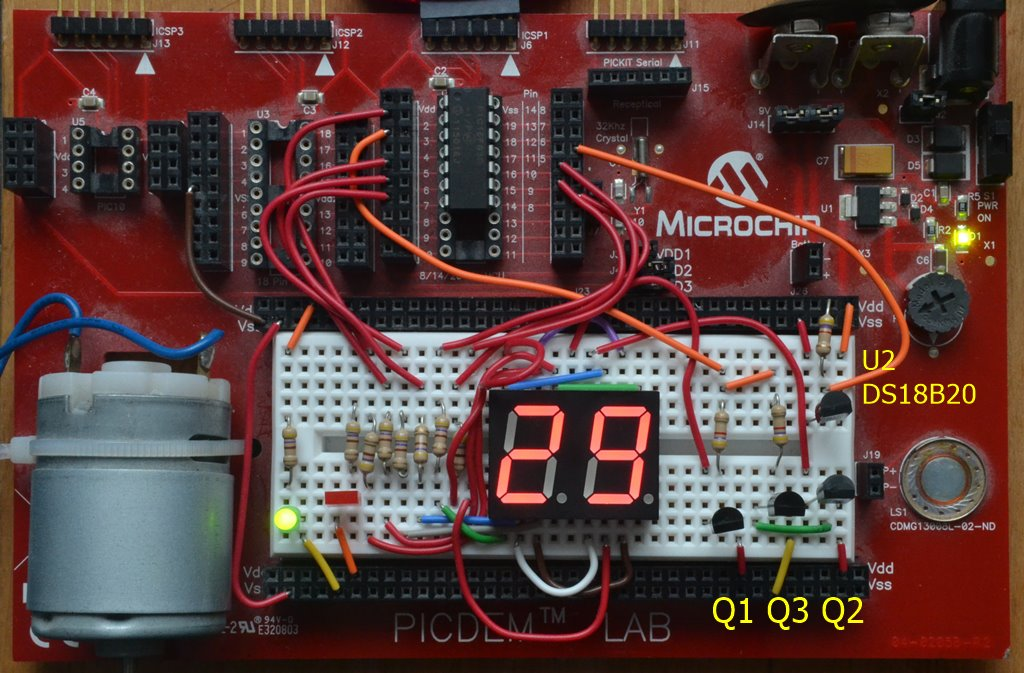
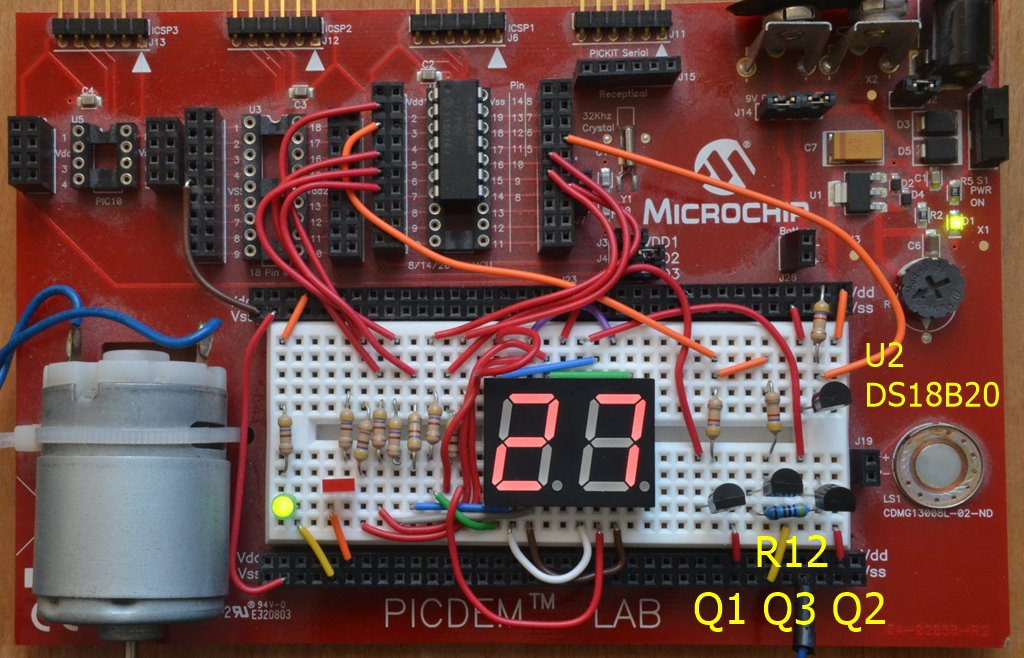
Added R12 to avoid overcurrent of Q3, fixes #1

diff --git a/ExpressPCB/README.md b/ExpressPCB/README.md
@@ -1,0 +1,21 @@
+Schematics for PIC16F630 project:
+- Temperature meter with DS18B20 sensor, LED display and PIC16F630 MCU
+
+![PIC16F630 Temp meter schematics](https://raw.githubusercontent.com/hpaluch/temp_meter_16f630/master/ExpressPCB/temp_meter_16F630.png)
+
+There is also experimental PCB in [temp_meter_16F630.pcb](temp_meter_16F630.png) - not tested.
+
+Schematics has been drawn in ExpressPCB
+- http://www.expresspcb.com/ExpressPCBHtm/Download.htm
+
+Setup:
+- Put `*.s` (Custom symbols) into your
+  ```cmd
+  %USERPROFILE%\My Documents\ExpressPCB\SchComponents_Custom\
+  ```
+- Put `*.p` (Custom PCB packages) into your
+  ```cmd
+  %USERPROFILE%\My Documents\ExpressPCB\PCBComponents_Custom\
+  ```
+
+
